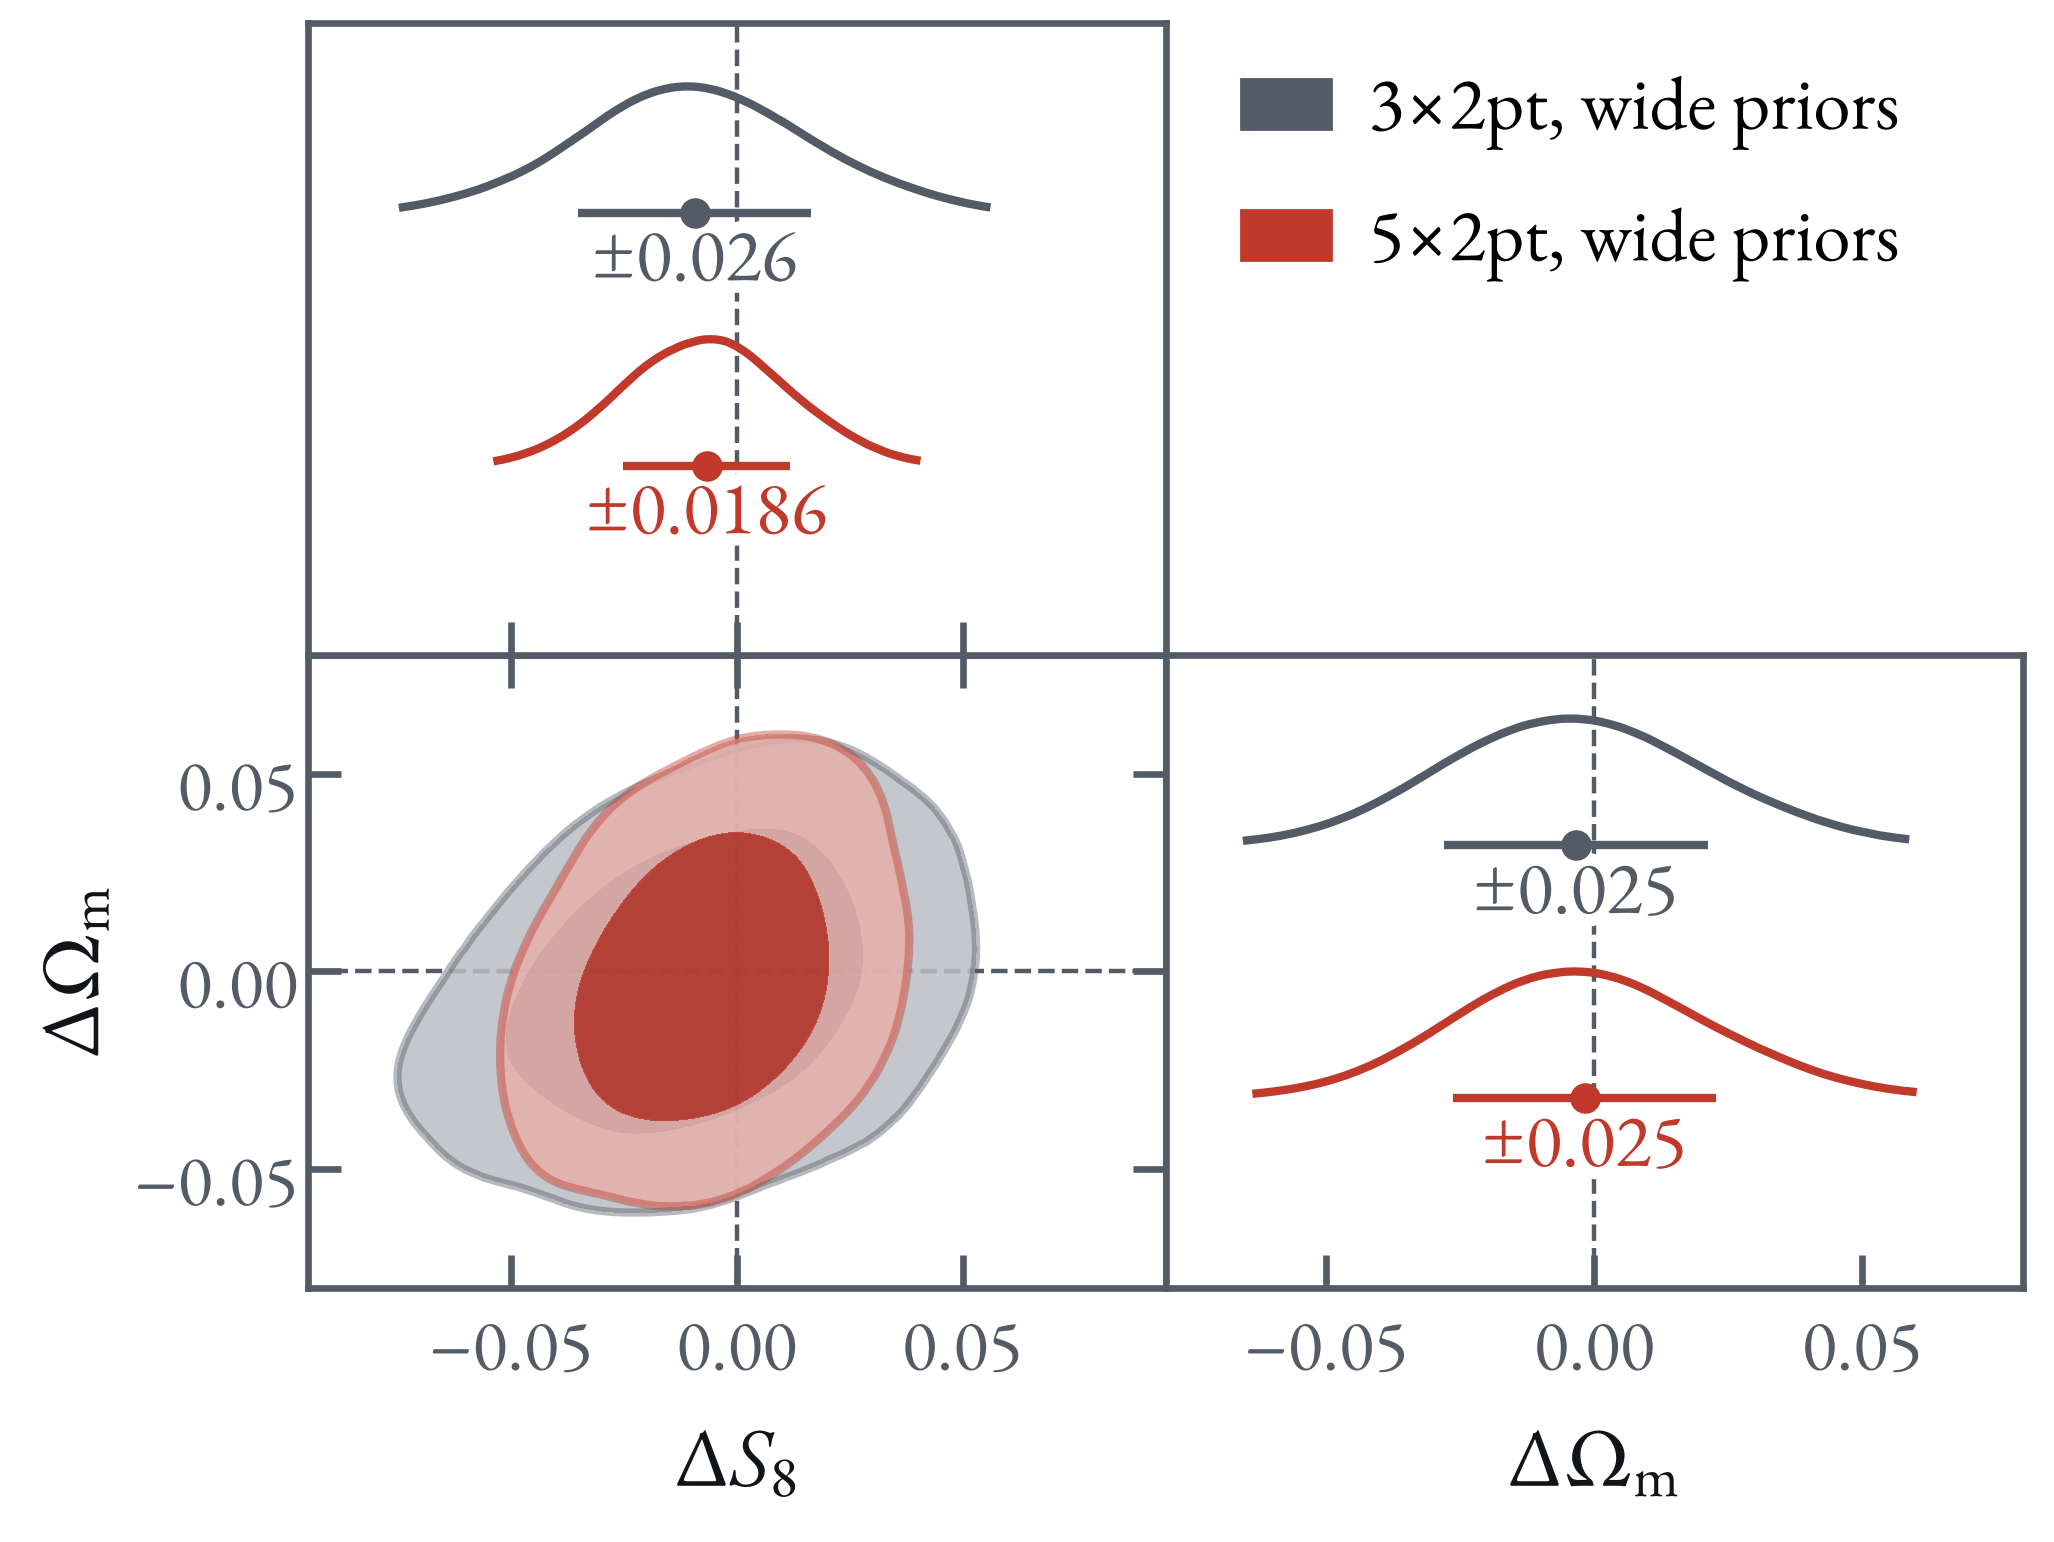
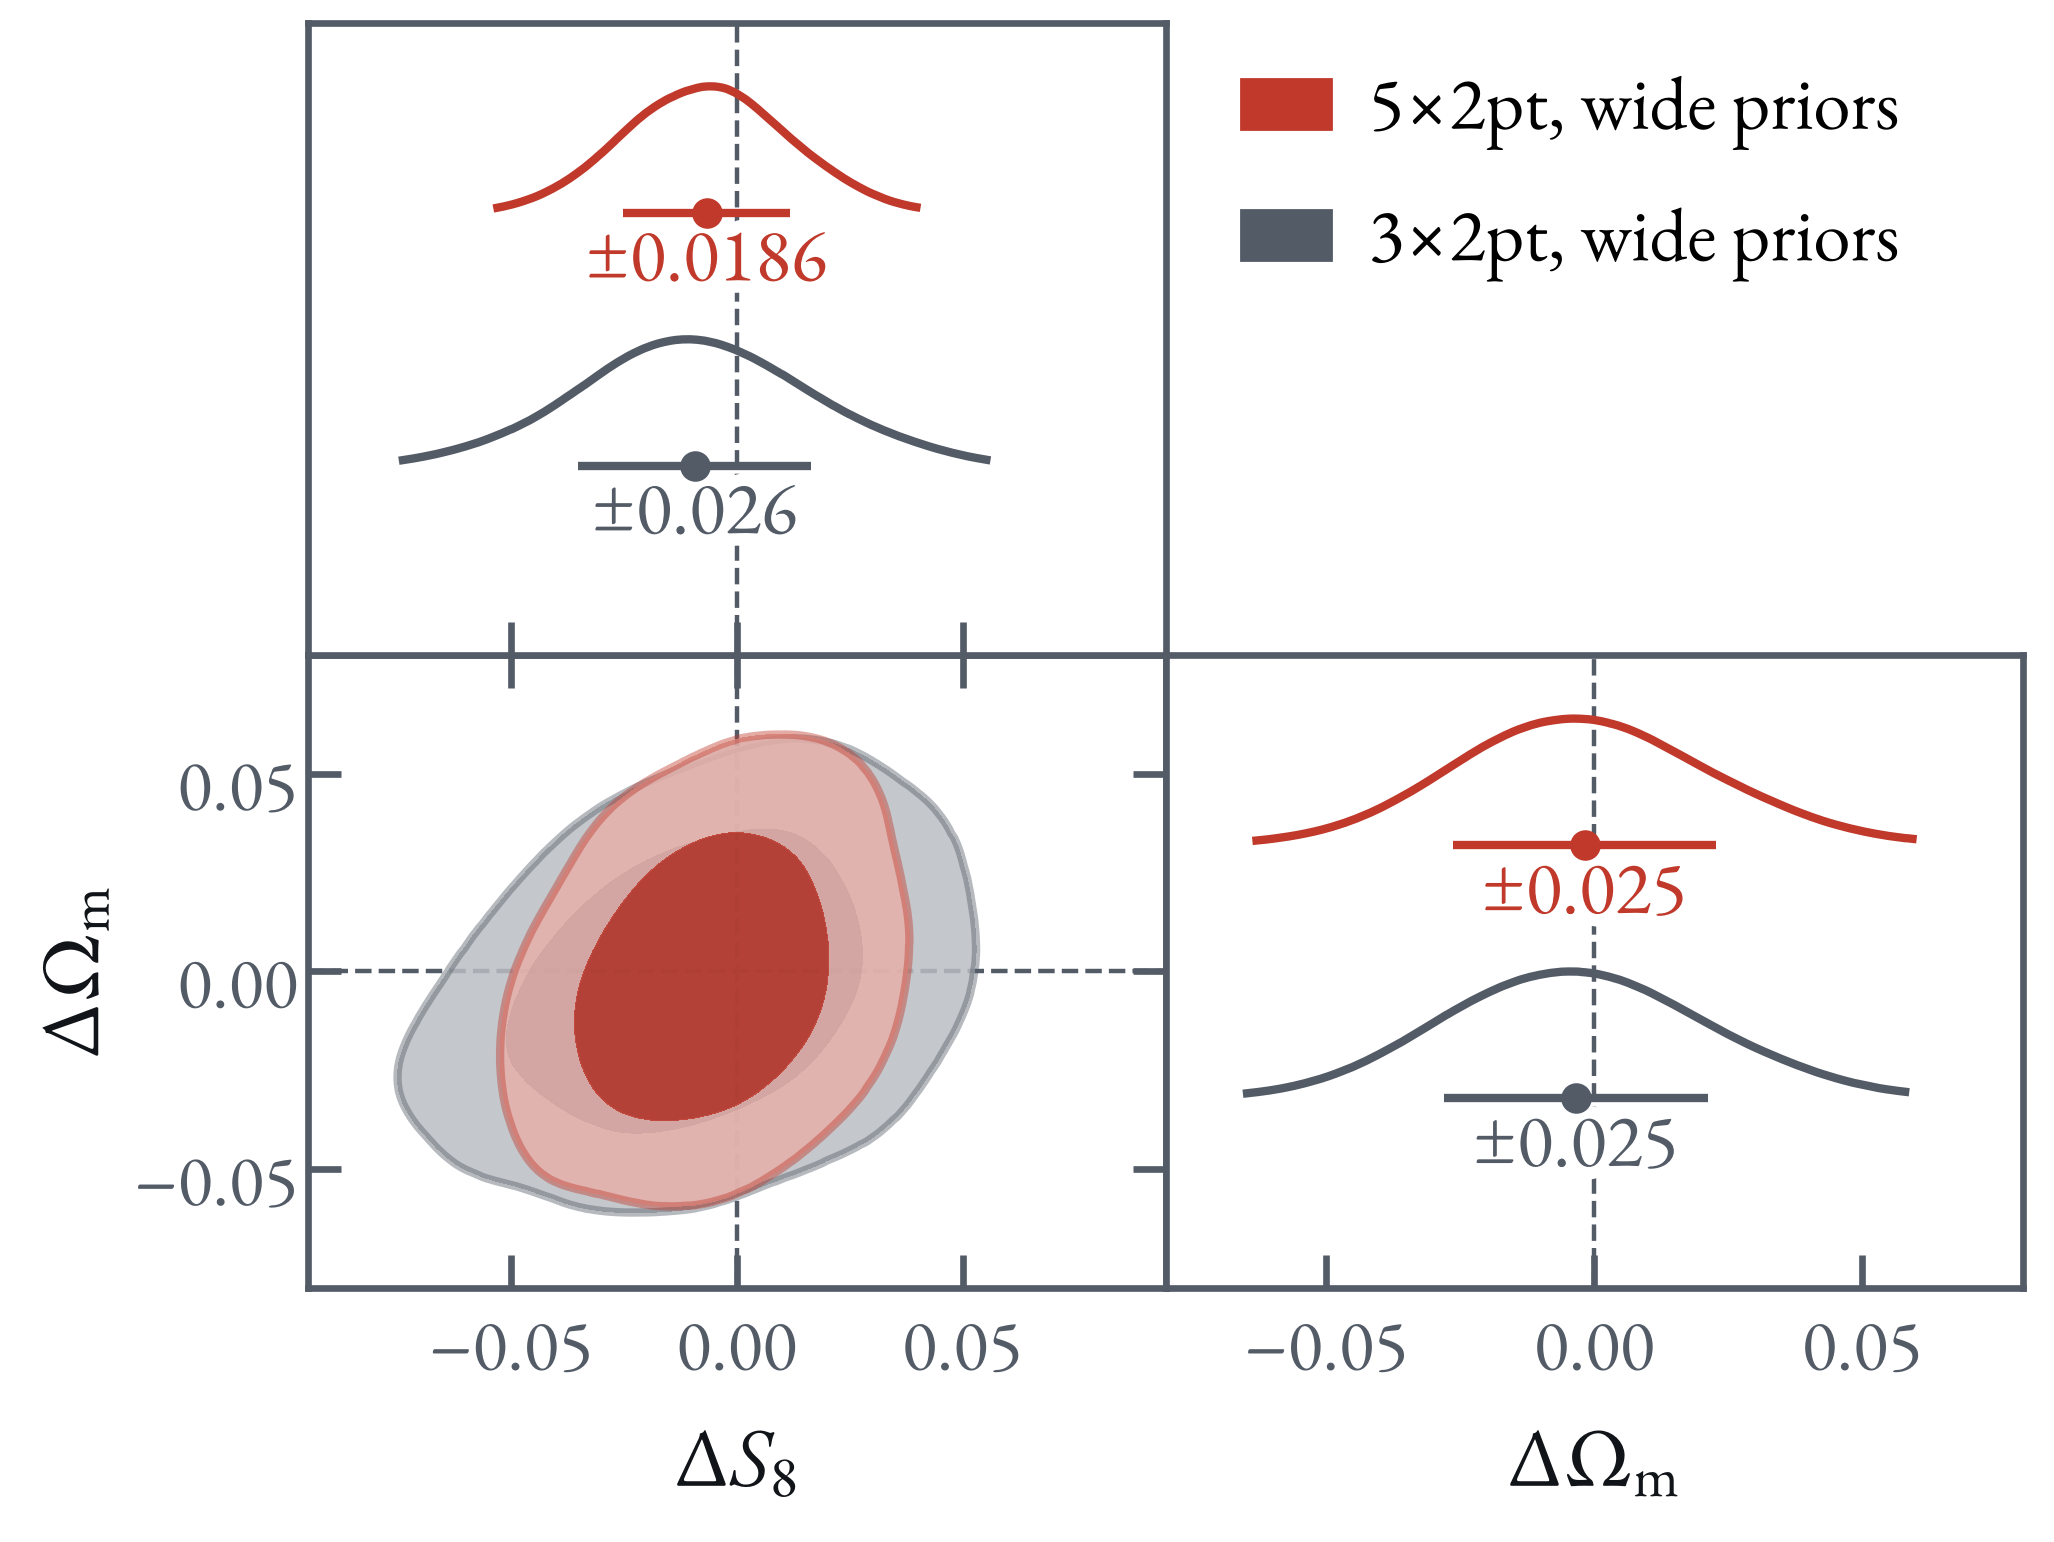
ICE dr1-shear-m: the 5x2pt row arrives above so the 3x2pt stays put; the mock-skies drawing on the backup questions slide
Claude-Session: https://claude.ai/code/session_01JK7o9F2hHekDDNjGjDNYkv

diff --git a/2611_ICE_Barcelona/slides/questions.html b/2611_ICE_Barcelona/slides/questions.html
@@ -6,11 +6,8 @@
     <li>What are <strong>collaborations</strong> for, and which of their assumptions hold through 2031?</li>
   </ul>
   <figure class="art">
-    <img src="images/ice_art/questions-sheet3.png" class="wash breathe t3" data-at="1400 479 489 156" alt="Pencil and watercolour: a small group of people stand at the foot of a light cone and look up into it; its four sheets fade with distance, the nearest painted, the third almost gone">
-    <img src="images/ice_art/questions-sheet2.png" class="wash breathe t2" data-at="1407 575 414 134" alt="">
-    <img src="images/ice_art/questions-sheet1.png" class="wash breathe t1" data-at="1461 674 340 111" alt="">
-    <img src="images/ice_art/questions-sheet0.png" class="wash breathe t0" data-at="1472 765 265 89" alt="">
-    <img src="images/ice_art/questions-lines.png" data-at="1223 478 669 516" alt="">
+    <img src="images/ice_art/sbi-wash.png" class="wash" data-at="312 732 1308 210" alt="Seven mock skies along a parameter axis, their structure growing clumpier; the one that matches the data is ringed in ink and the posterior is a lilac wash on the axis beneath it">
+    <img src="images/ice_art/sbi-lines.png" data-at="244 728 1462 222" alt="">
   </figure>
   <aside class="notes">
     <ul class="skim">

diff --git a/2611_ICE_Barcelona/slides/dr1-shear-m.html b/2611_ICE_Barcelona/slides/dr1-shear-m.html
@@ -2,7 +2,7 @@
   <h2>CMB crosses provide an independent check of shear bias $m$</h2>
   <figure>
     <img src="images/ice_dr1_forecast_4.png" alt="The 3x2pt with the priors on shear m and the source redshifts ten times wider, on wider axes">
-    <img class="fragment" data-fragment-index="1" src="images/ice_dr1_forecast_5.png" alt="The 5x2pt with SPT-3G under the same wide priors, added as the bottom row: it grows less than the 3x2pt">
+    <img class="fragment" data-fragment-index="1" src="images/ice_dr1_forecast_5.png" alt="The 5x2pt with SPT-3G under the same wide priors, added as the row above: it grows less than the 3x2pt">
   </figure>
   <div class="text">
     <img class="fragment" data-fragment-index="2" src="images/ice_dr1_shear_m.png" alt="Shear bias m per source redshift bin with the wide prior: the 5x2pt with SPT-3G measures m more tightly than the 3x2pt in bins 2 to 6">

diff --git a/2611_ICE_Barcelona/make_dr1_forecast.py b/2611_ICE_Barcelona/make_dr1_forecast.py
@@ -80,7 +80,7 @@ def main():
         act = chain(z, f'dr1_A_{n}x2', f'{n}×2pt with ACT DR6', ACT)
         spt = chain(z, f'dr1_MS_{n}x2', f'{n}×2pt with SPT-3G', SPT, False)
         frames.append(([base, act, spt], [base, act, spt]))
-    frames += [([wide3], [wide3]), ([wide3, wide5], [wide3, wide5])]
+    frames += [([wide3], [wide3]), ([wide5, wide3], [wide3, wide5])]   # the 5×2pt arrives above, so the 3×2pt's row stays put
     for k, (rows, draw) in enumerate(frames, 1):
         wide = k >= 4
         chains = rows[::-1]
